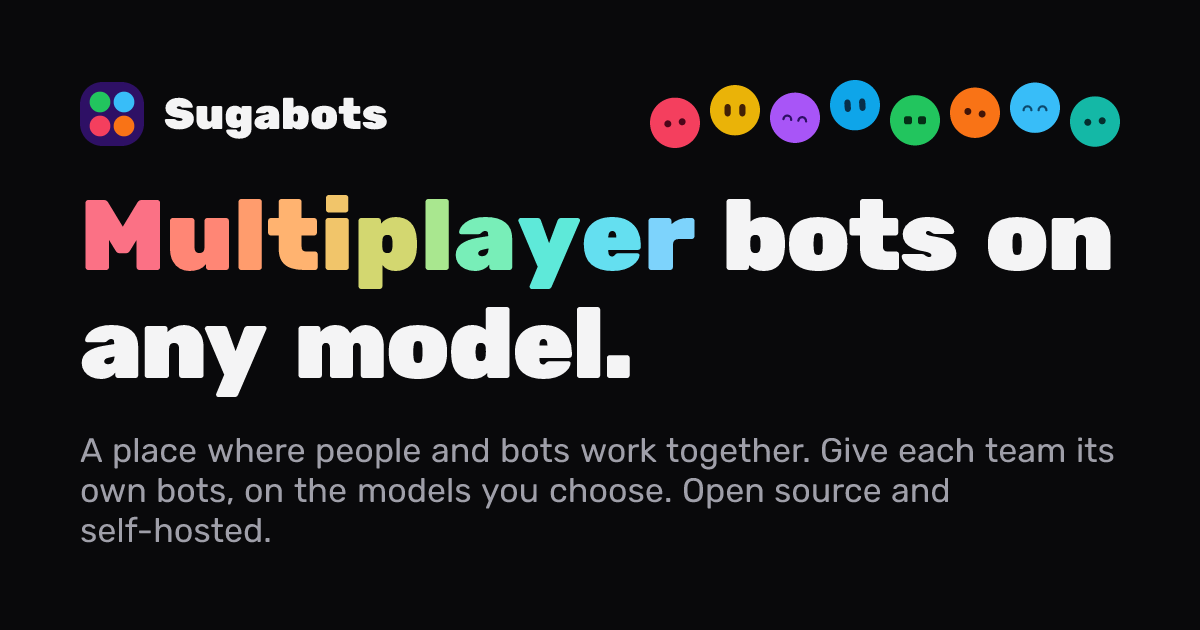
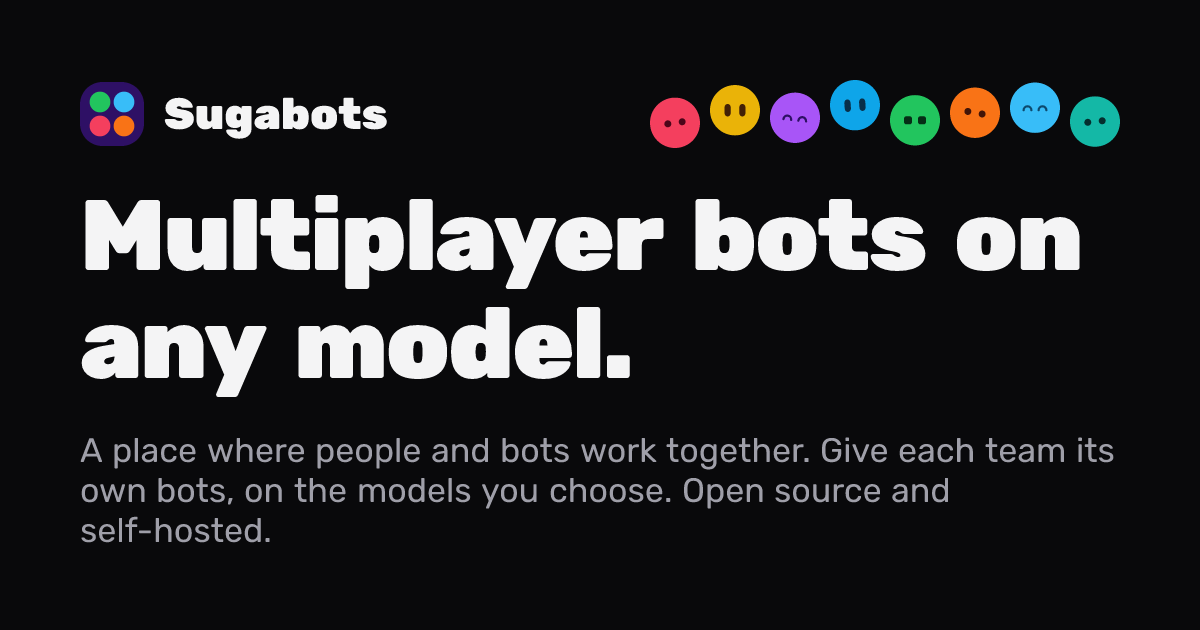
feat(website): drop the rainbow headline and indigo for the app's greys, and answer the demo request with its square buttons

Changed region(s): [[0.0617, 0.3016, 0.925, 0.4825]]

diff --git a/packages/website/src/styles.css b/packages/website/src/styles.css
@@ -51,35 +51,34 @@
  * docs use the themed tokens below instead.
  */
 @theme {
-	--color-landing-page: #0b0c0f;
-	--color-landing-card: #111216;
-	--color-landing-raised: #15161a;
-	--color-landing-bubble: #17181d;
-	--color-landing-chip: #1d1f25;
-	--color-landing-button: #262830;
+	--color-landing-page: #0a0a0a;
+	--color-landing-card: #0f0f11;
+	--color-landing-raised: #111113;
+	--color-landing-bubble: #111113;
+	--color-landing-chip: #17171a;
+	--color-landing-button: #1f1f23;
 
-	--color-landing-line: #1d1f25;
-	--color-landing-frame: #23252c;
-	--color-landing-control: #2a2c33;
-	--color-landing-rule: #2f323a;
-	--color-landing-control-hover: #4a4d57;
+	--color-landing-line: #1c1c1f;
+	--color-landing-frame: #1f1f23;
+	--color-landing-control: #26262a;
+	--color-landing-rule: #3f3f46;
+	--color-landing-control-hover: #52525b;
 
-	--color-landing-text: #eceef2;
-	--color-landing-message: #dcdee3;
-	--color-landing-button-text: #dfe1e6;
-	--color-landing-secondary: #c9ccd3;
-	--color-landing-muted: #9096a1;
-	--color-landing-faint: #7d838e;
-	--color-landing-link: #c3cdff;
+	--color-landing-text: #ededed;
+	--color-landing-message: #ededed;
+	--color-landing-button-text: #ededed;
+	--color-landing-secondary: #c4c4ca;
+	--color-landing-muted: #a1a1aa;
+	--color-landing-faint: #808089;
 	/* The app's own link colour, for the demos' in-app lines. */
-	--color-landing-app-link: #aebbff;
+	--color-landing-app-link: #ededed;
 
-	/* The site's accent: indigo. */
-	--color-landing-accent: oklch(0.56 0.17 268);
-	--color-landing-accent-hover: oklch(0.6 0.17 268);
-	/* The accent the app's pills and buttons use, in the demos of the app. */
-	--color-landing-pill: oklch(0.52 0.17 268);
-	/* The logo's four dots, in order: the site's palette, and its highlights' gradient. */
+	/* The site has no hue of its own, as the app has none: focus rings and highlights are grey. */
+	--color-landing-accent: #a1a1aa;
+	/* The app's primary button, the strongest ink, in the demos of the app. */
+	--color-landing-pill: #ededed;
+	--color-landing-pill-hover: #d4d4d8;
+	/* The logo's four dots, in order. */
 	--color-landing-logo-green: #22c55e;
 	--color-landing-logo-blue: #38bdf8;
 	--color-landing-logo-red: #f43f5e;
@@ -212,11 +211,6 @@
 
 .docs-steps > ol > li > p:first-child {
 	@apply mt-1 text-lg font-bold text-foreground;
-}
-
-/* The highlights' gradient: the logo's four colours, lightened, in rainbow order. Mirrored, letter by letter, in scripts/generate-og-image.tsx. */
-.landing-logo-gradient {
-	background-image: linear-gradient(in oklch 90deg, #fb7185, #fdba74, #86efac, #7dd3fc);
 }
 
 /*

diff --git a/packages/website/scripts/generate-og-image.tsx b/packages/website/scripts/generate-og-image.tsx
@@ -9,13 +9,10 @@
 import { readFileSync, writeFileSync } from "node:fs";
 import { fileURLToPath } from "node:url";
 import { Resvg } from "@resvg/resvg-js";
-import { formatHex, interpolate, parse, toGamut } from "culori";
+import { formatHex, parse, toGamut } from "culori";
 import satori from "satori";
 import colors from "tailwindcss/colors";
 import { siteMeta } from "../src/site-meta.ts";
-
-/** The highlights' rainbow, as `.landing-logo-gradient` in `src/styles.css` draws it. */
-const ACCENT_STOPS = ["#fb7185", "#fdba74", "#86efac", "#7dd3fc"];
 
 const WIDTH = 1200;
 const HEIGHT = 630;
@@ -25,17 +22,6 @@ function hex(tailwindColor: string): string {
 	const parsed = parse(tailwindColor);
 	if (!parsed) throw new Error(`Unparseable Tailwind colour: ${tailwindColor}`);
 	return formatHex(toSrgb(parsed));
-}
-
-/** Each letter of `word` with the colour from its place along the highlights' rainbow, mixed as CSS mixes `in oklch`. */
-function accentLetters(word: string) {
-	const along = interpolate(ACCENT_STOPS, "oklch");
-	const letters = [...word];
-	return letters.map((letter, offset) => ({
-		letter,
-		offset,
-		color: formatHex(toSrgb(along(letters.length === 1 ? 0 : offset / (letters.length - 1)))),
-	}));
 }
 
 function readModule(specifier: string): Buffer {
@@ -93,15 +79,7 @@ const image = (
 					letterSpacing: -2,
 				}}
 			>
-				{/* satori draws no gradient text, so each letter takes its colour from along the hero's rainbow. */}
-				<span style={{ display: "flex" }}>
-					{accentLetters(siteMeta.headline.accent).map(({ letter, color, offset }) => (
-						<span key={offset} style={{ color }}>
-							{letter}
-						</span>
-					))}
-				</span>
-				{`${siteMeta.headline.rest}.`.split(" ").map((word) => (
+				{`${siteMeta.headline}.`.split(" ").map((word) => (
 					<span key={word}>{word}</span>
 				))}
 			</div>

diff --git a/packages/website/src/landing/card-demos.tsx b/packages/website/src/landing/card-demos.tsx
@@ -44,7 +44,7 @@ export function ThreadDemo() {
 					className={cn(
 						"mt-1 flex h-6 items-center gap-[5px] self-start rounded-lg border px-2 text-[12.5px] font-medium tabular-nums transition-colors duration-150 outline-none focus-visible:ring-2 focus-visible:ring-landing-accent",
 						reacted
-							? "border-landing-accent/50 bg-landing-accent/18 text-landing-text"
+							? "border-landing-text bg-landing-button text-landing-text"
 							: "border-transparent bg-landing-chip text-landing-secondary hover:border-landing-control",
 					)}
 				>
@@ -95,14 +95,14 @@ export function ApprovalDemo() {
 							<button
 								type="button"
 								onClick={() => setAnswer("allowed")}
-								className="rounded-full bg-landing-pill px-4 py-[7px] text-white transition-colors hover:bg-landing-accent-hover focus-visible:ring-2 focus-visible:ring-landing-accent/60 outline-none"
+								className="h-[31px] rounded-[8px] bg-landing-pill px-4 text-landing-page transition-colors hover:bg-landing-pill-hover focus-visible:ring-2 focus-visible:ring-landing-accent outline-none"
 							>
 								Allow
 							</button>
 							<button
 								type="button"
 								onClick={() => setAnswer("denied")}
-								className="rounded-full bg-landing-button px-4 py-[7px] transition-colors hover:bg-landing-control focus-visible:ring-2 focus-visible:ring-landing-accent/60 outline-none"
+								className="h-[31px] rounded-[8px] bg-landing-button px-4 transition-colors hover:bg-landing-control focus-visible:ring-2 focus-visible:ring-landing-accent outline-none"
 							>
 								Deny
 							</button>

diff --git a/packages/website/src/site-meta.ts b/packages/website/src/site-meta.ts
@@ -1,13 +1,12 @@
 import { projectLinks } from "@sugabots/contracts/project-links";
 
-/** The headline, split where the accent colour ends. */
-const headline = { accent: "Multiplayer", rest: "bots on any model" } as const;
+const headline = "Multiplayer bots on any model";
 
 /** What the site says about itself: the hero, the page head and the link-preview image. */
 export const siteMeta = {
 	url: projectLinks.website,
 	headline,
-	title: `Sugabots | ${headline.accent} ${headline.rest}`,
+	title: `Sugabots | ${headline}`,
 	description:
 		"A place where people and bots work together. Give each team its own bots, on the models you choose. Open source and self-hosted.",
 	/** Written by scripts/generate-og-image.tsx. */

diff --git a/packages/website/src/landing/hero.tsx b/packages/website/src/landing/hero.tsx
@@ -11,10 +11,7 @@ export function Hero() {
 		<section id="top" className={cn(siteColumn, pageTop, "flex flex-col gap-16 sm:gap-24")}>
 			<div className="flex flex-col items-start gap-7">
 				<h1 className="max-w-[820px] text-[clamp(40px,6vw,72px)]/[1.02] font-bold tracking-[-0.035em] text-balance">
-					<span className="landing-logo-gradient bg-clip-text text-transparent">
-						{siteMeta.headline.accent}
-					</span>{" "}
-					{siteMeta.headline.rest}.
+					{siteMeta.headline}.
 				</h1>
 				<p className="max-w-[560px] text-[clamp(17px,1.6vw,20px)]/[1.5] text-pretty text-landing-muted">
 					{siteMeta.description}

diff --git a/packages/website/src/landing/plans-section.tsx b/packages/website/src/landing/plans-section.tsx
@@ -138,7 +138,7 @@ function Plan({ name, summary, badge, children }: PlanProps) {
 				<div className="flex items-start justify-between gap-4">
 					<h3 className="text-[21px]/[1.25] font-semibold tracking-[-0.01em]">{name}</h3>
 					{badge && (
-						<span className="shrink-0 rounded-full border border-landing-accent/40 bg-landing-accent/15 px-2.5 py-0.5 text-xs font-semibold text-landing-link">
+						<span className="shrink-0 rounded-full border border-landing-control bg-landing-chip px-2.5 py-0.5 text-xs font-semibold text-landing-text">
 							{badge}
 						</span>
 					)}
